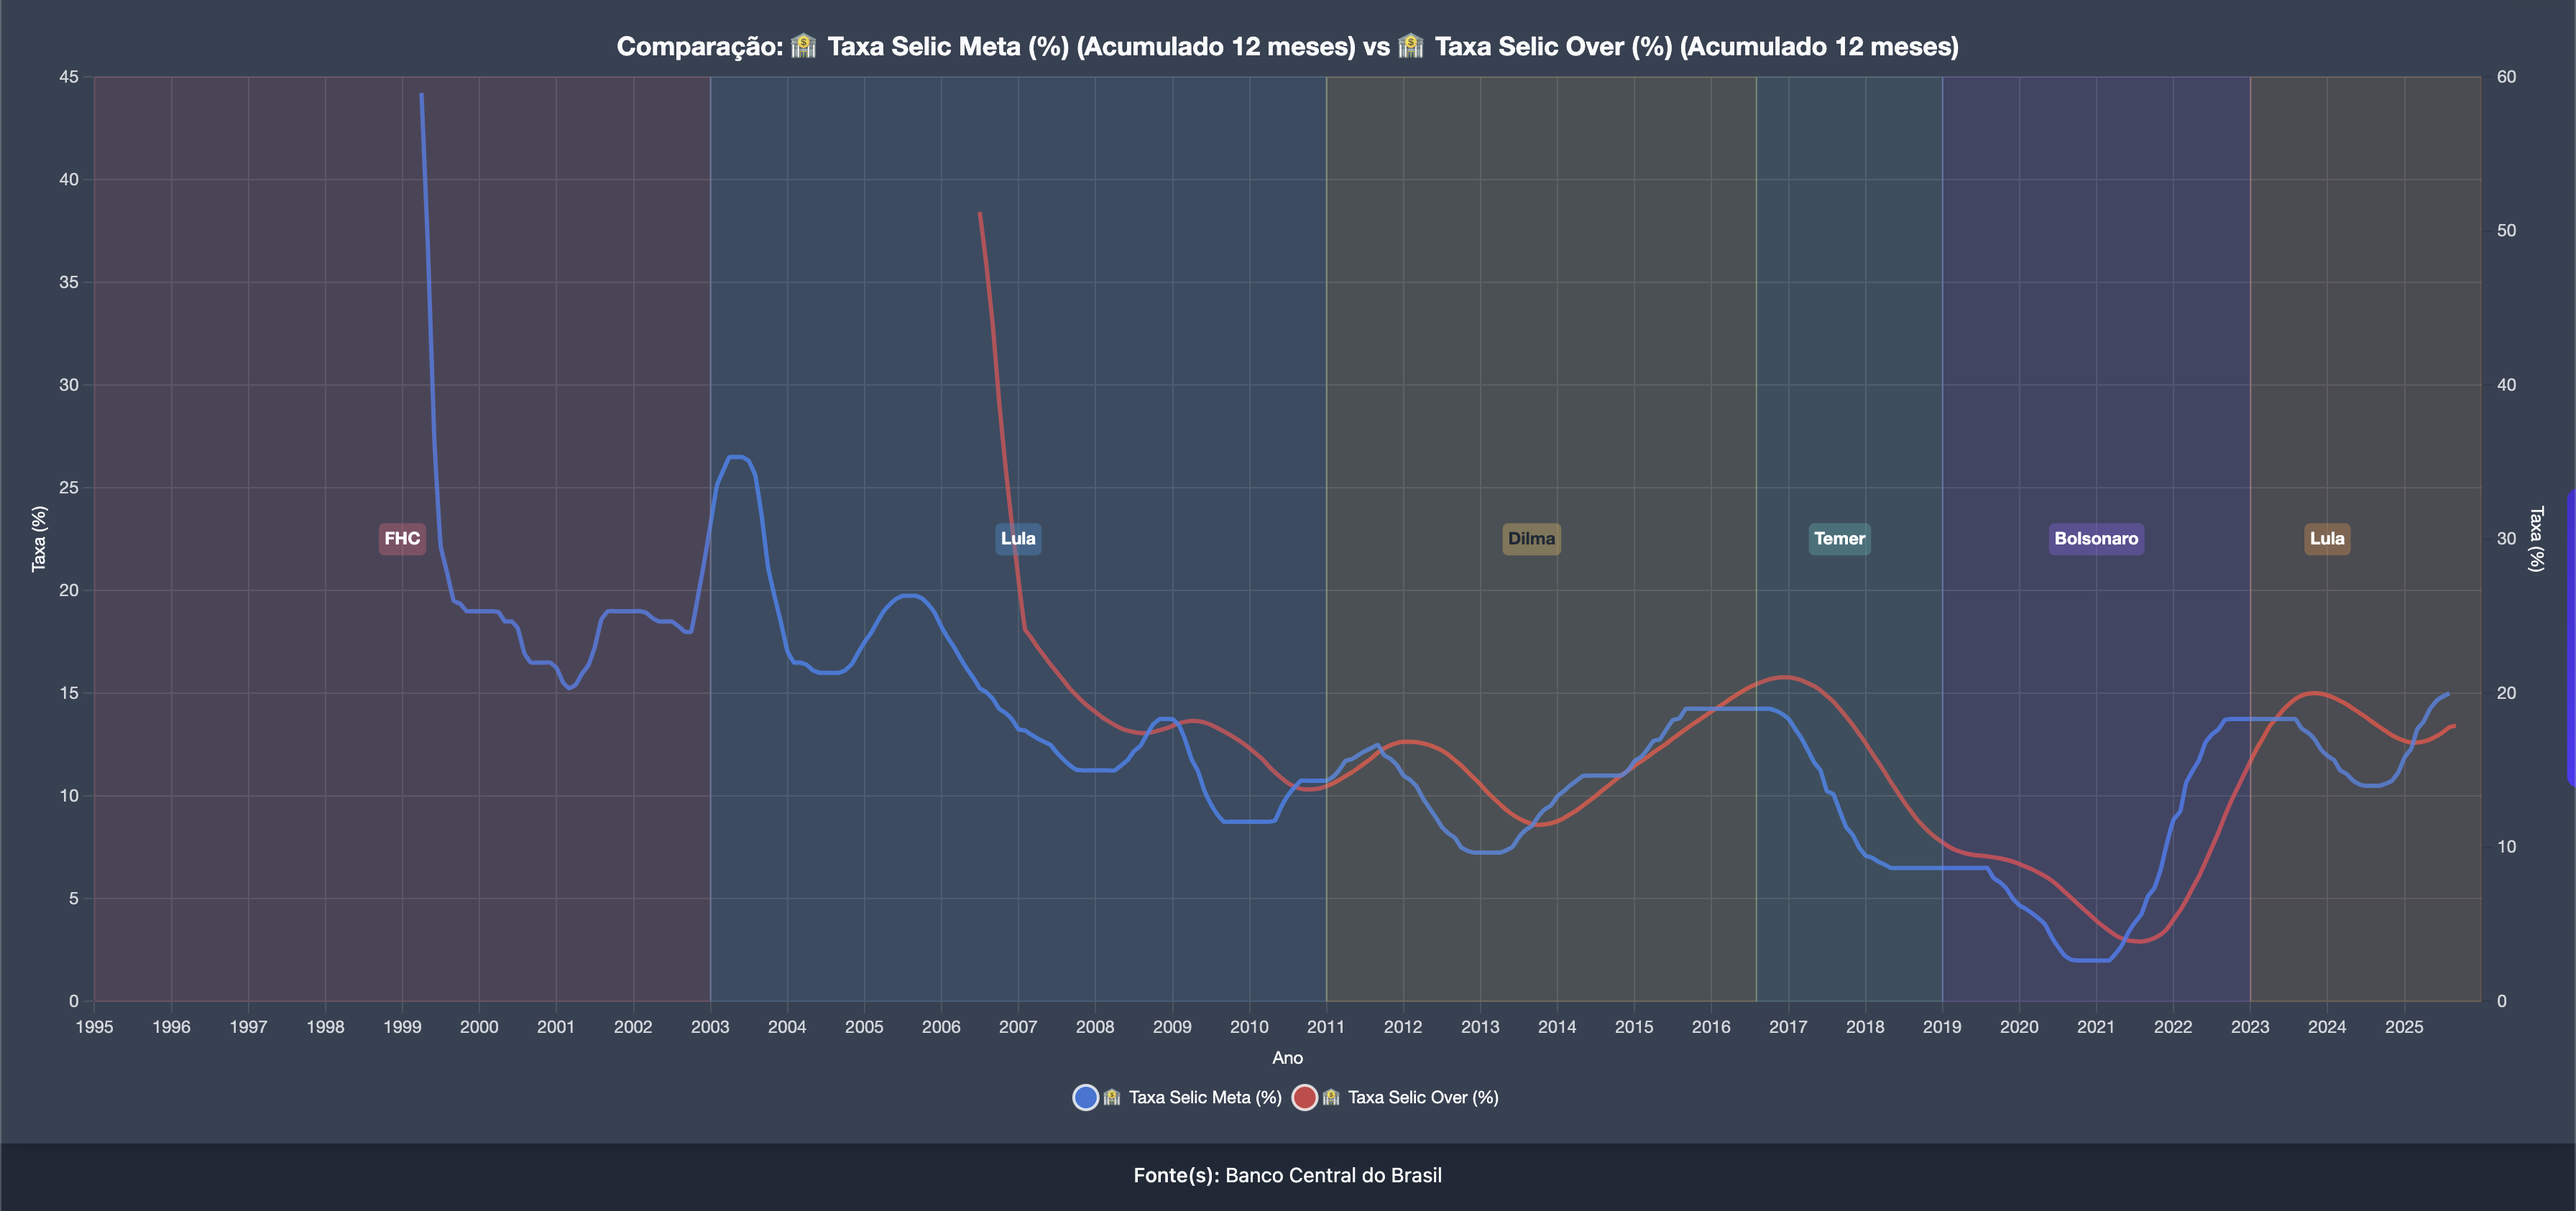
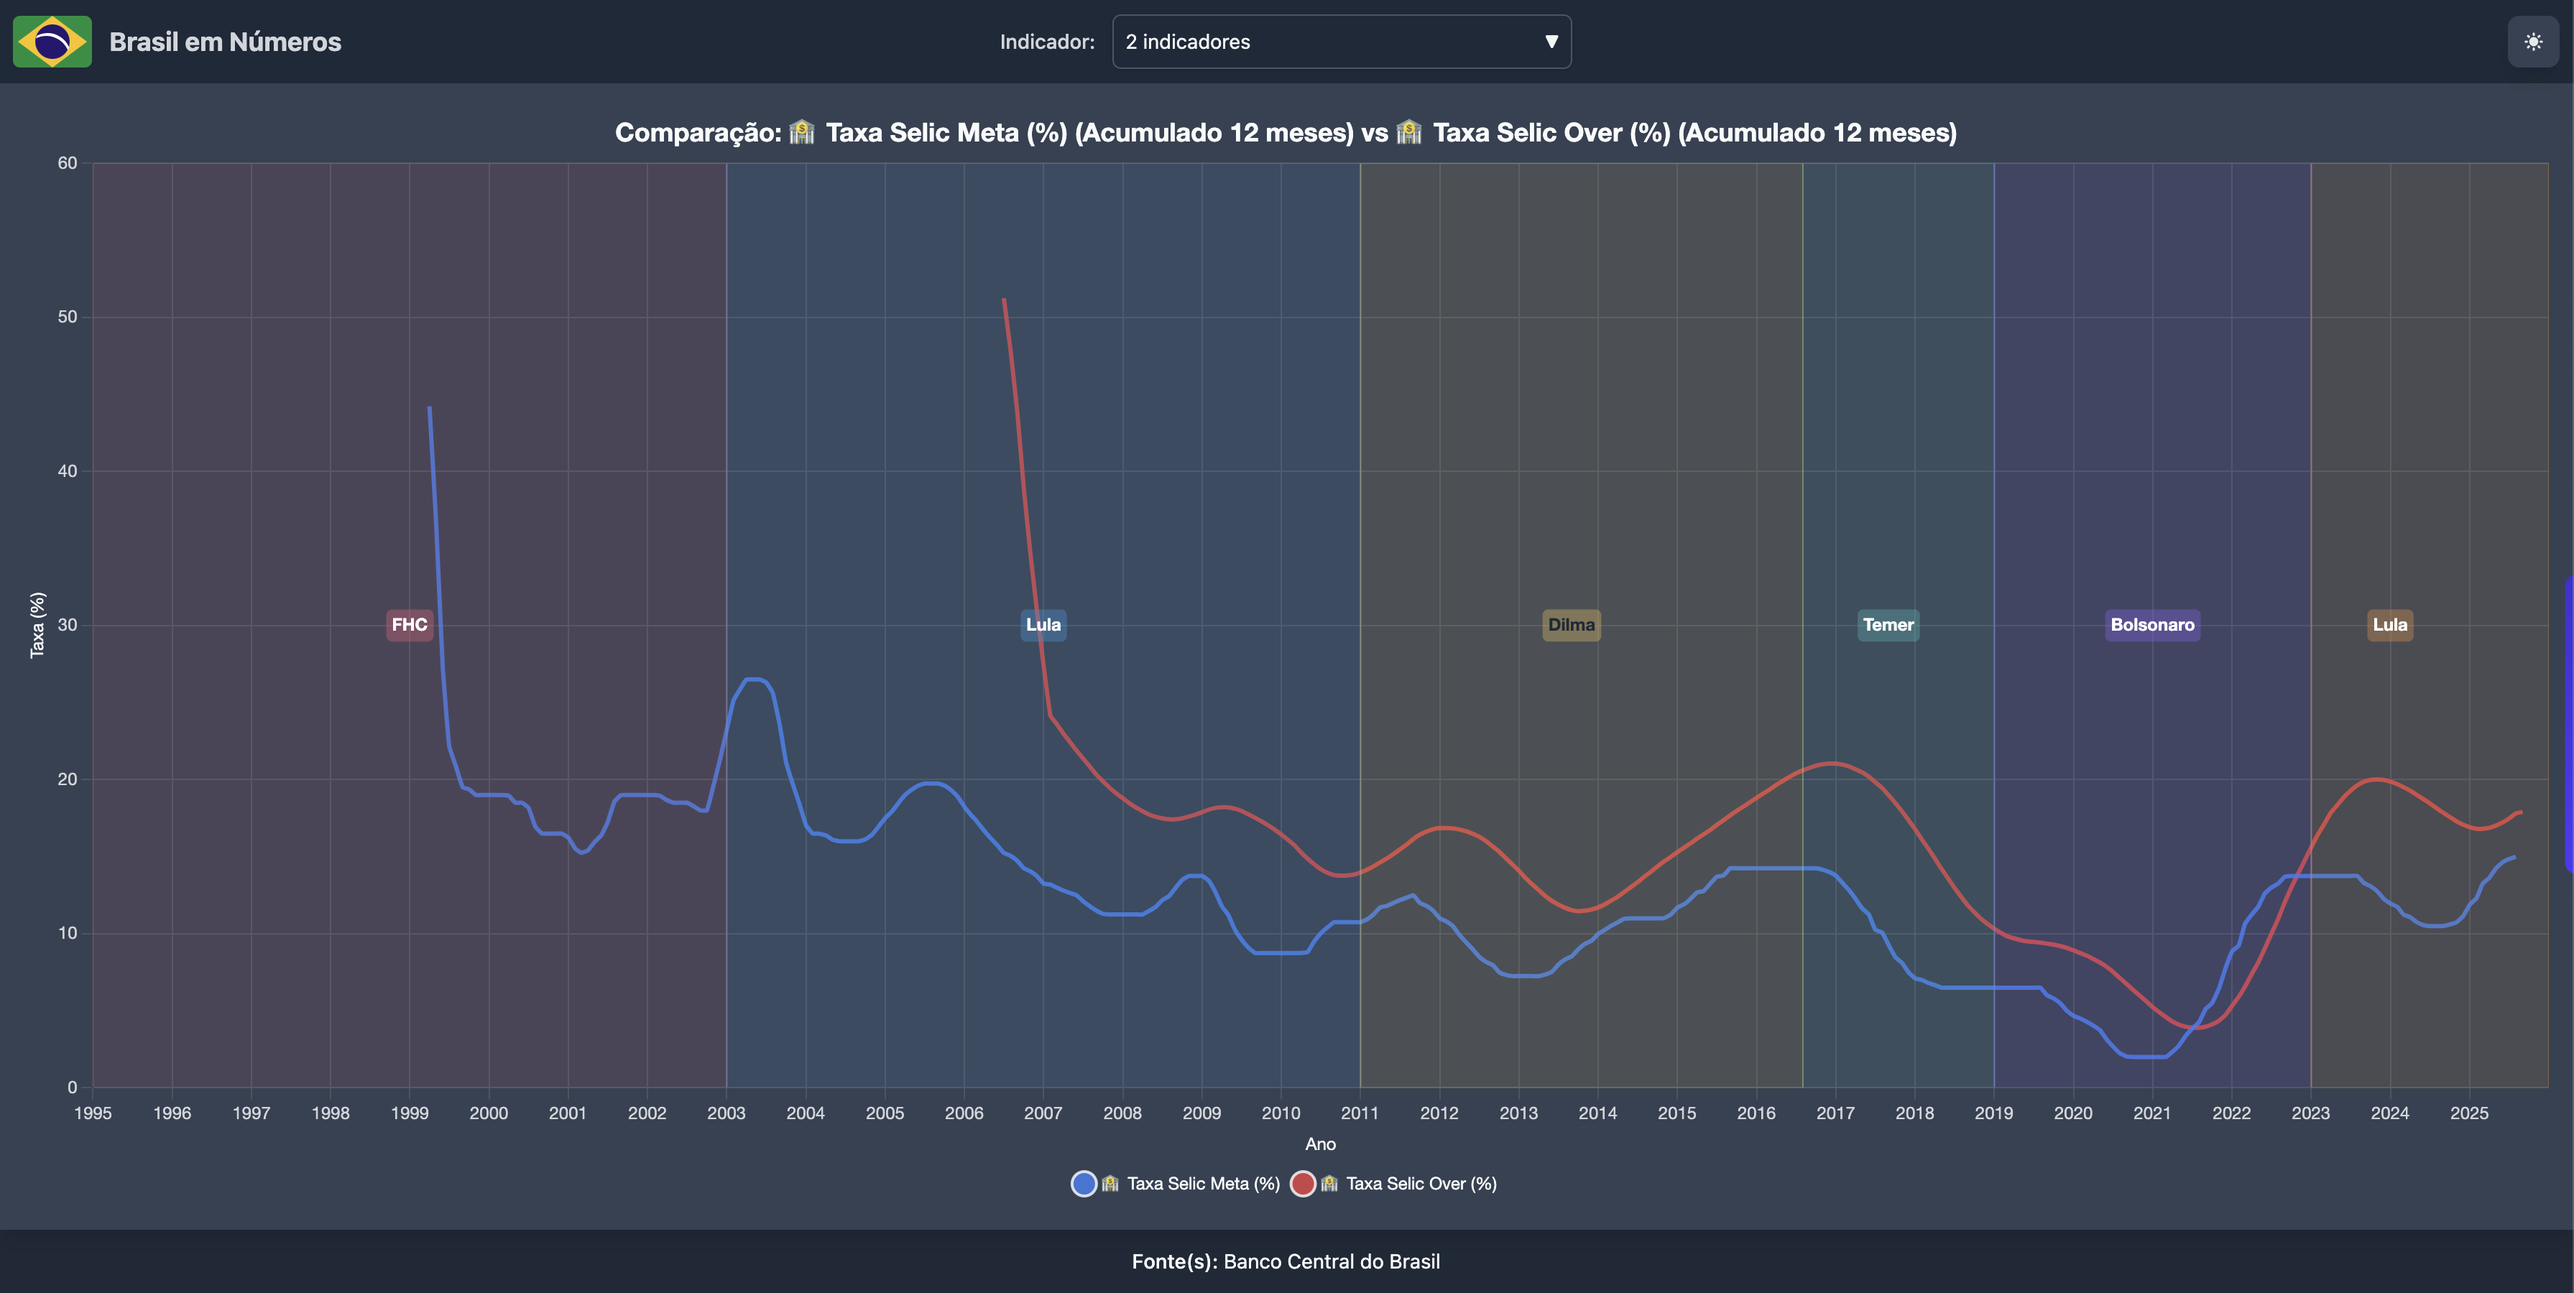
link para gráfico no post sobre selic

diff --git a/_posts/2025-08-07-selic-15-remedio-para-inflacao-ou-taxaco-que-freia-brasil.md b/_posts/2025-08-07-selic-15-remedio-para-inflacao-ou-taxaco-que-freia-brasil.md
@@ -14,6 +14,10 @@ Antes de tudo, é crucial diferenciar os dois "sabores" da Selic:
 
 [![Selic Meta vs Selic Over](/assets/img/selic-meta-vs-selic-over.png)](/assets/img/selic-meta-vs-selic-over.png)
 
+<p style="text-align: center; font-size: 0.85em; font-style: italic; margin-top: 0.5em;">
+  <a href="{{ site.url }}/?indicators=selic-meta-acum-12m%2Cselic-over-acum-12m" class="text-blue-600 hover:text-blue-800 underline">Ver gráfico Selic Meta vs Selic Over</a>
+</p>
+
 - **Selic Meta:** É o alvo, a taxa oficial que o Comitê de Política Monetária (Copom) do Banco Central define a cada 45 dias. Atualmente, a meta é 15%.
 - **Selic Over (ou Efetiva):** É a taxa que realmente acontece no dia a dia, nas operações de empréstimo de curtíssimo prazo entre os bancos, que usam títulos públicos como garantia. Ela costuma ficar um pouquinho abaixo da meta. É nesta taxa que o famoso CDI se espelha.
 
